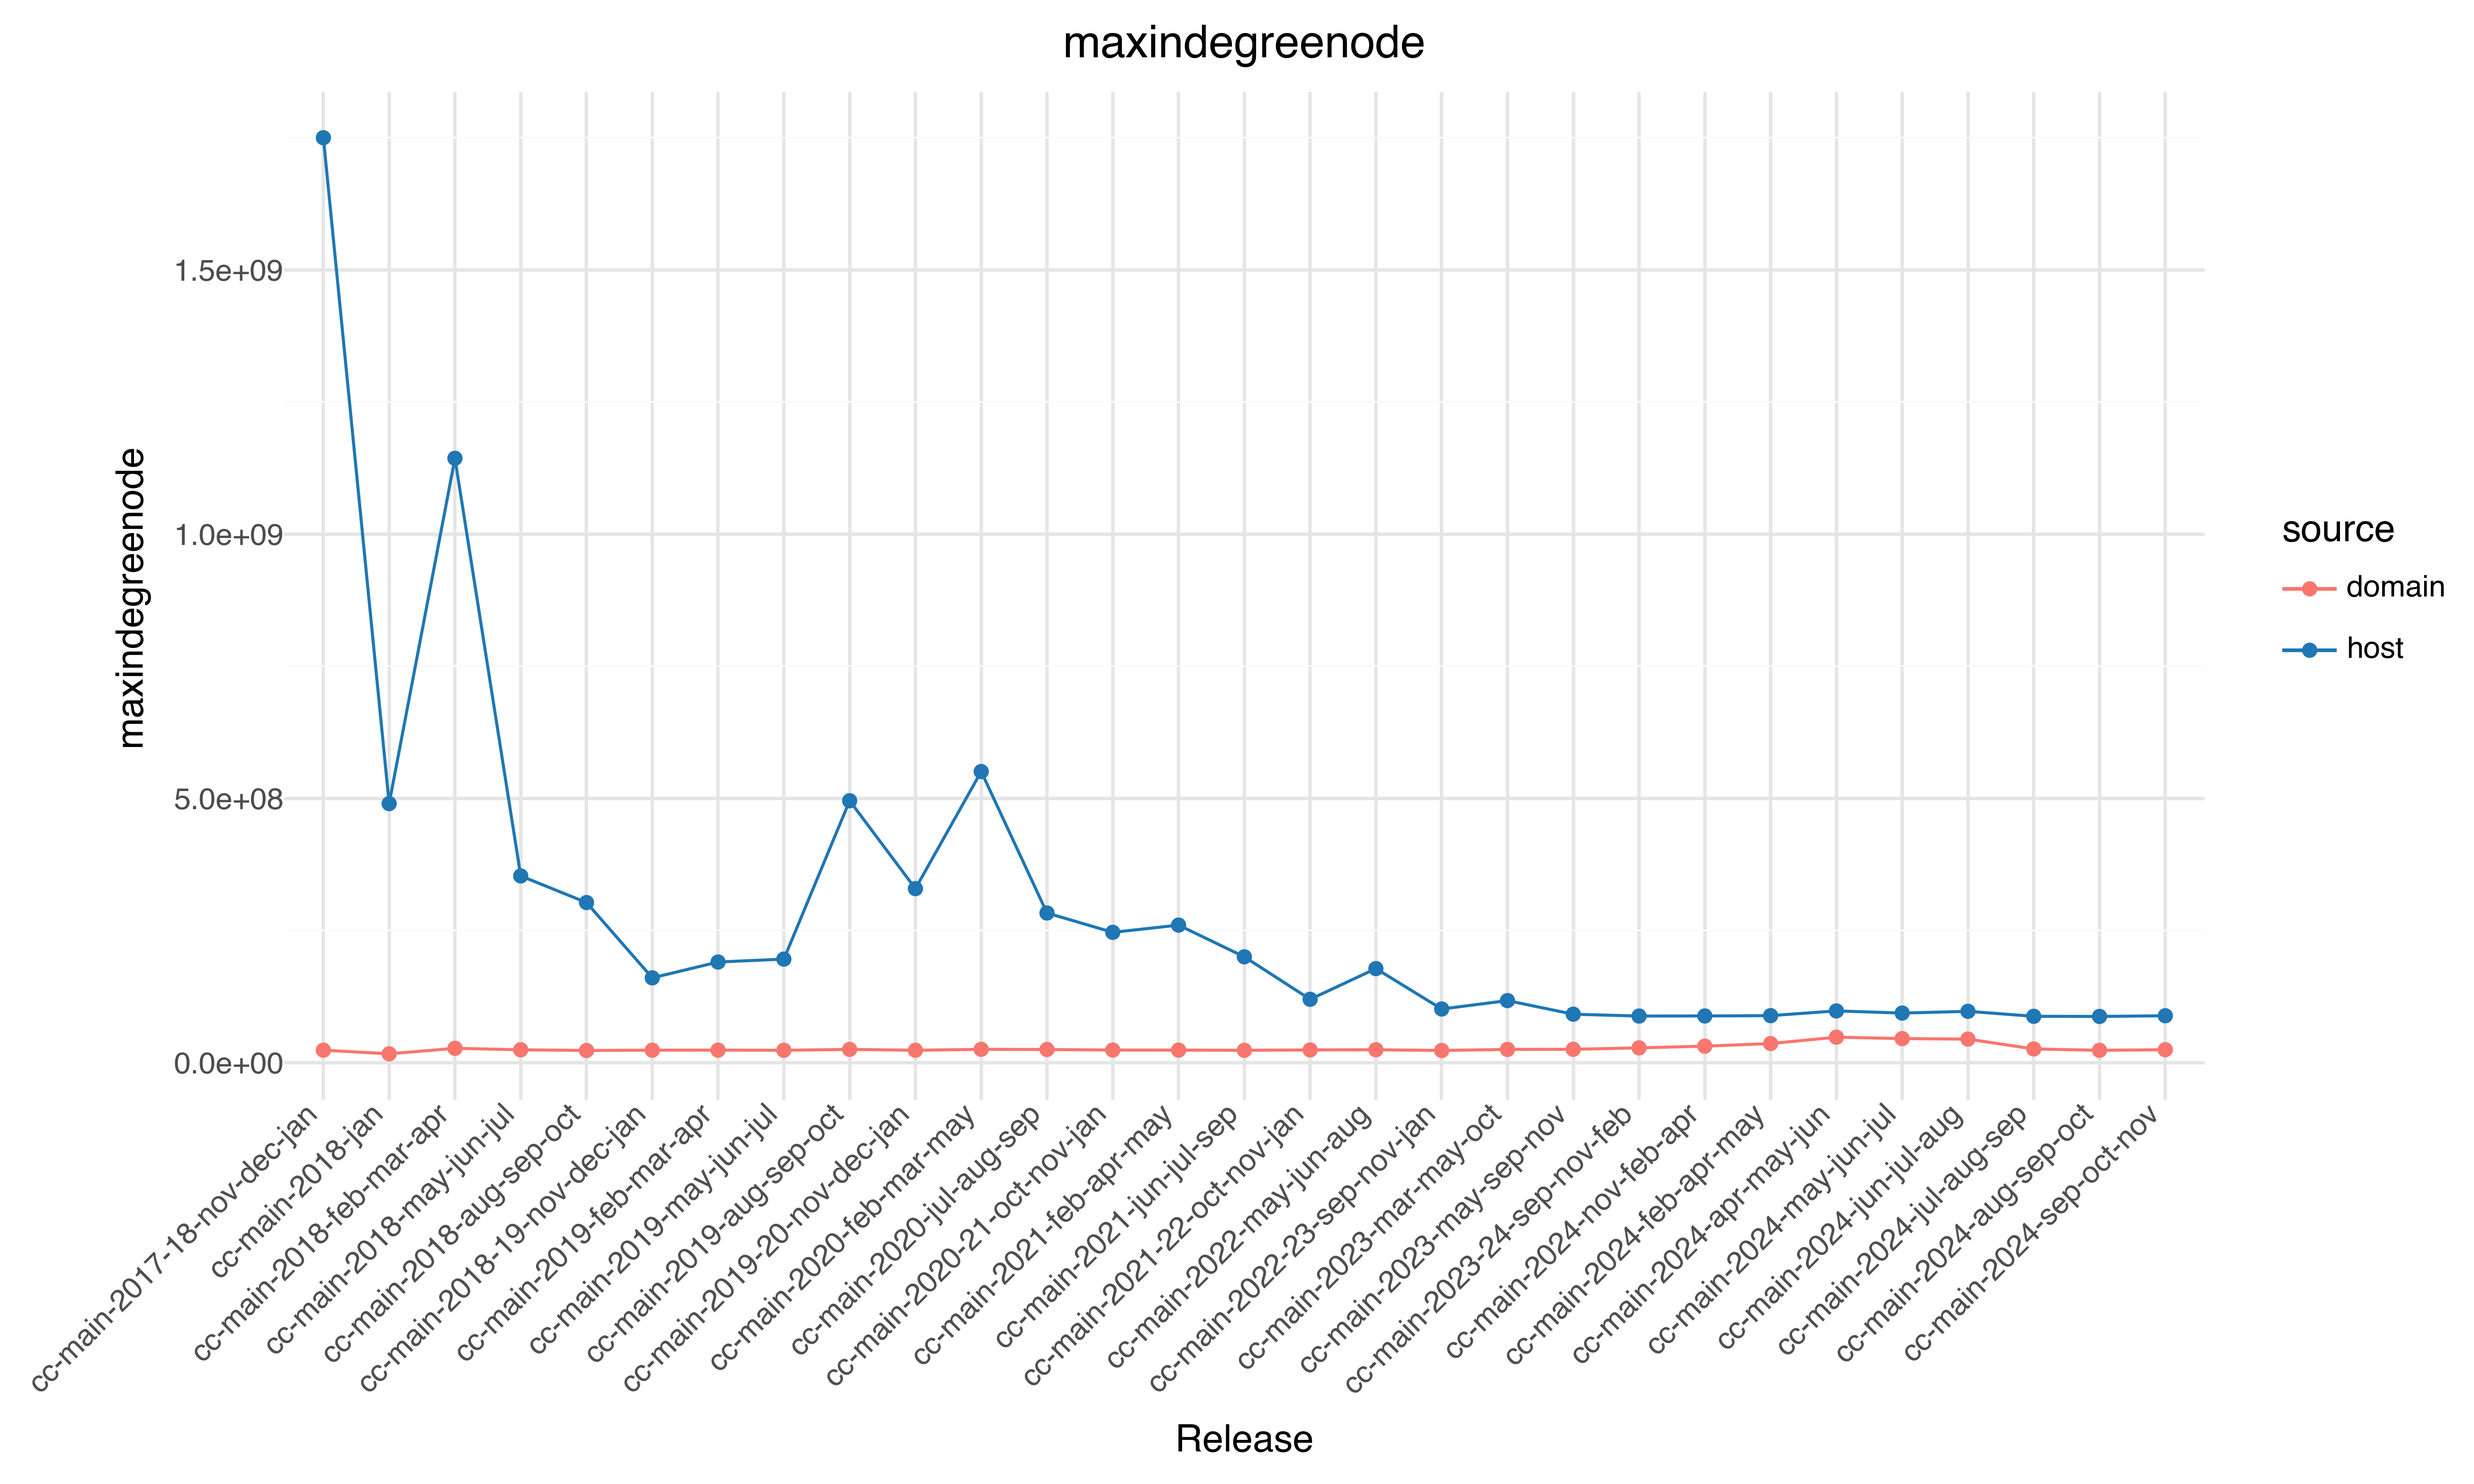
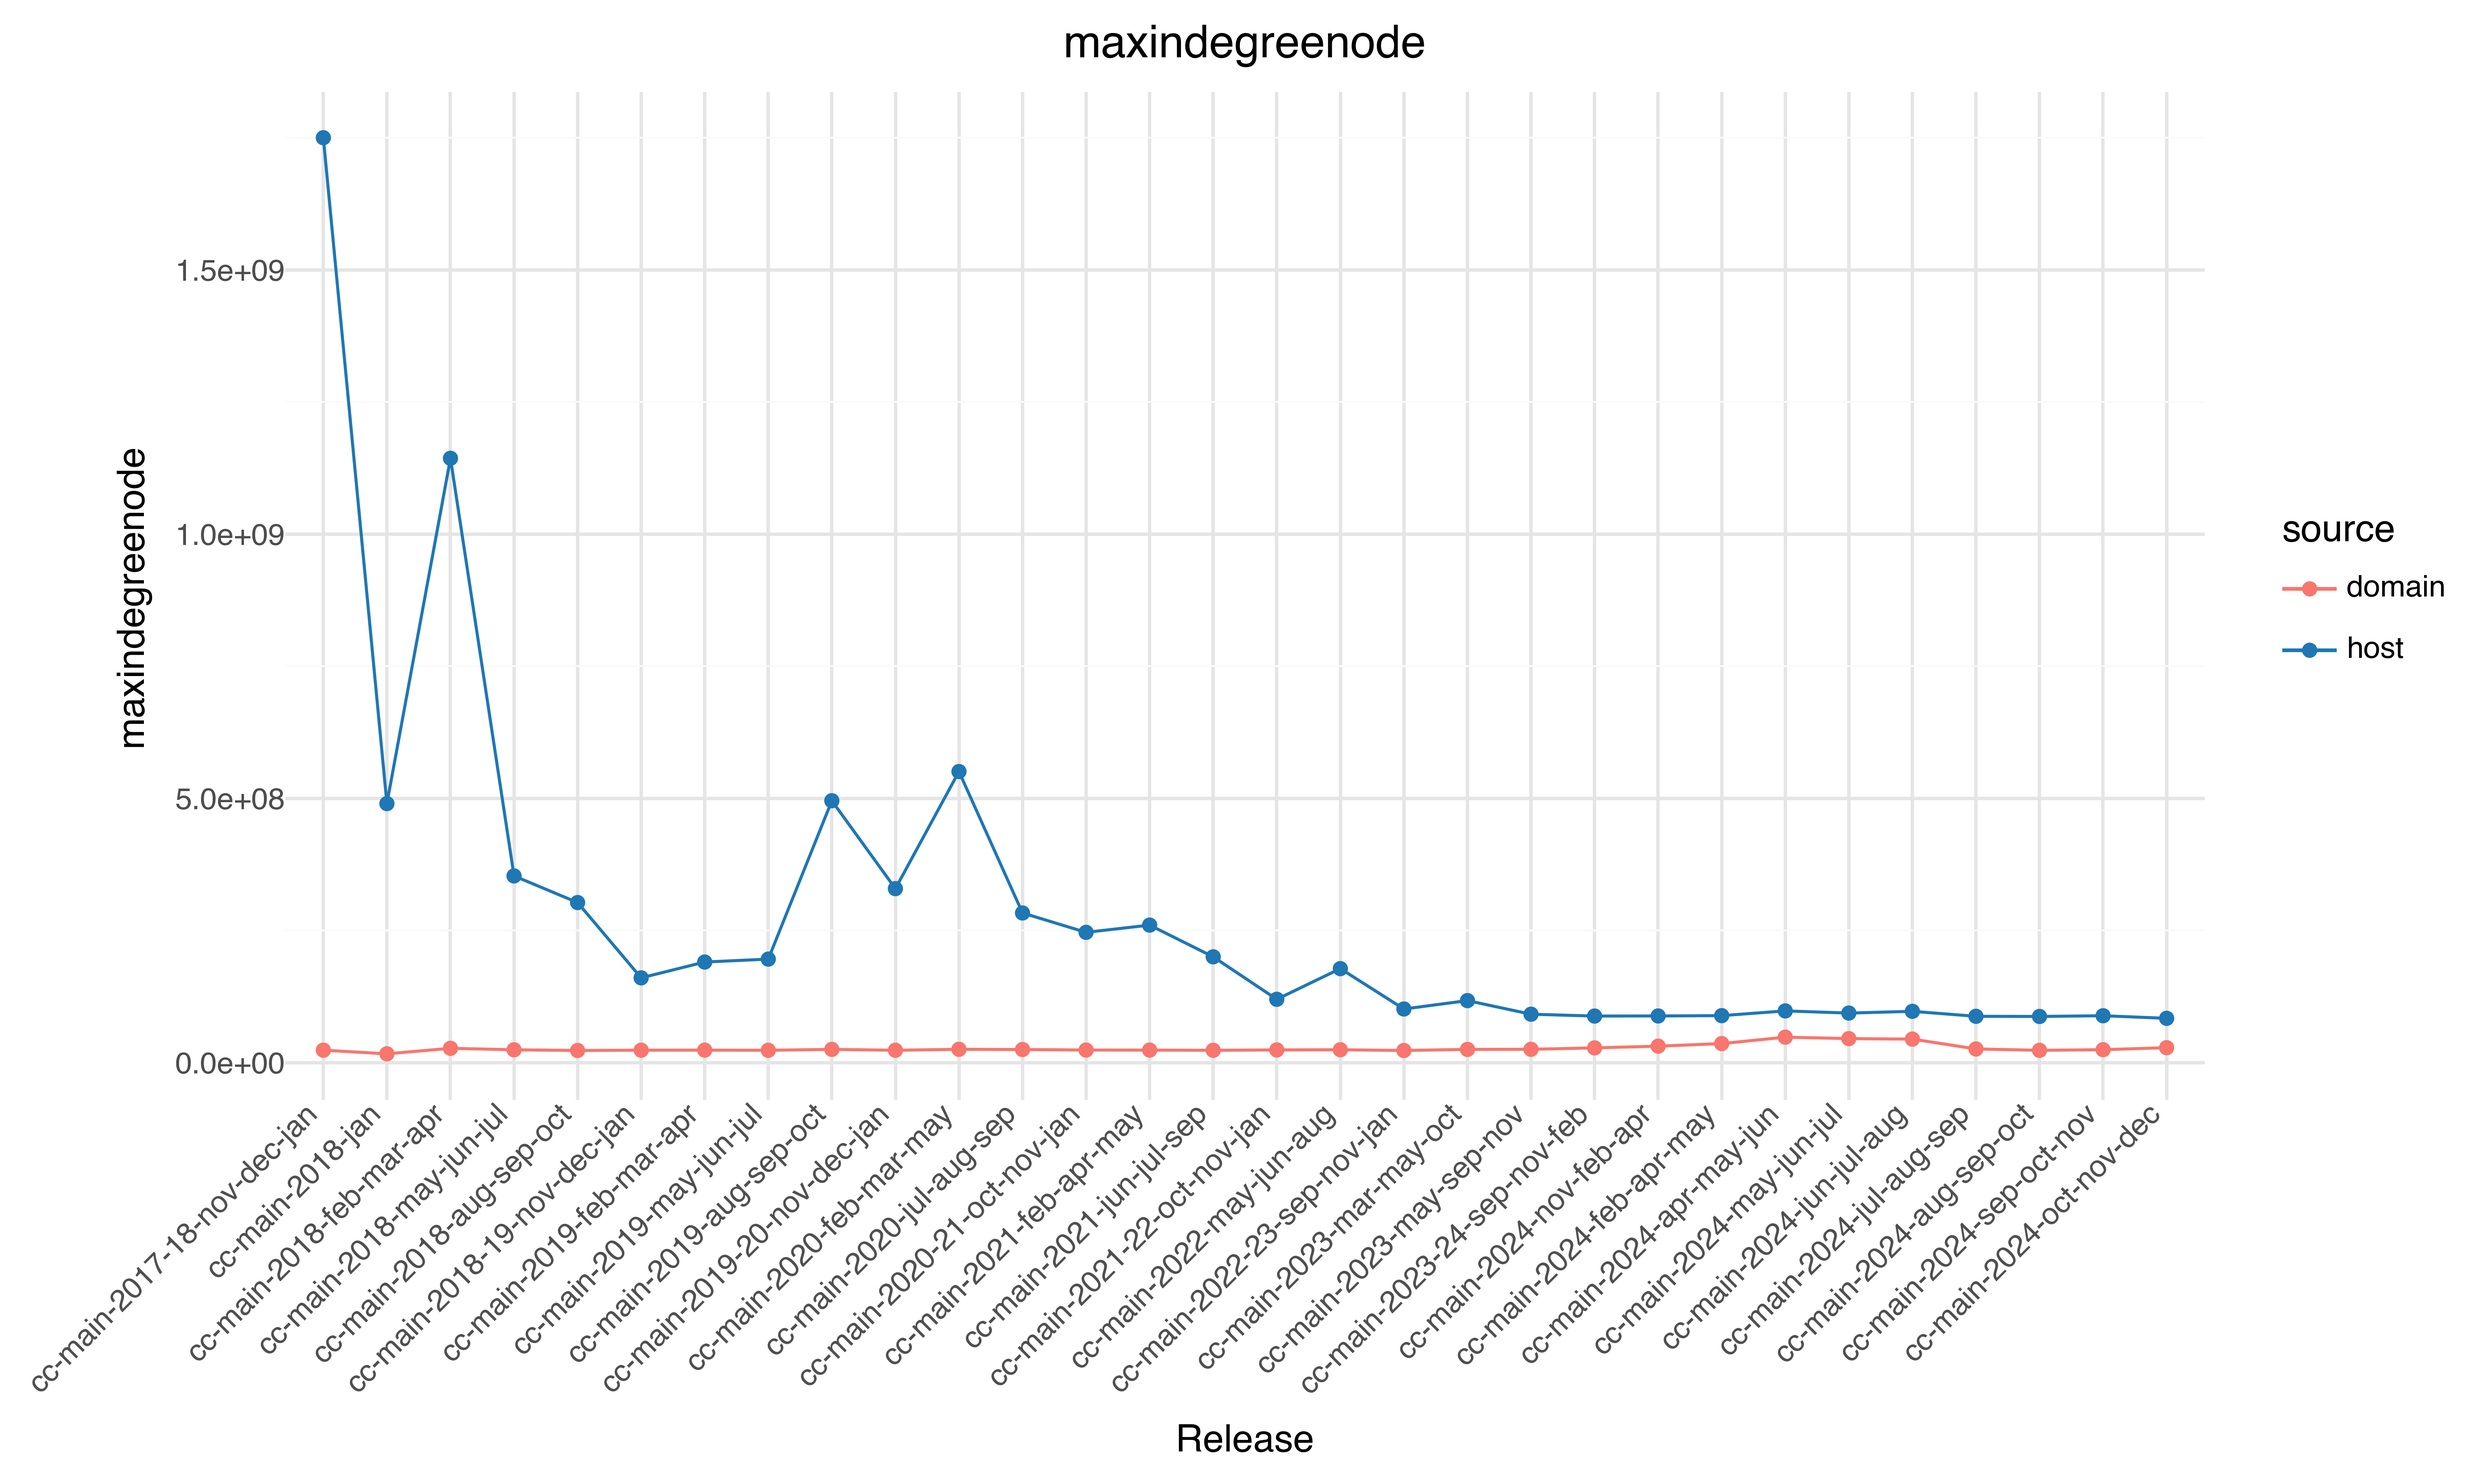
chore: update with data from latest release (cc-main-2024-oct-nov-dec)

Changed region(s): [[0.0935, 0.0622, 0.8727, 0.9333]]

diff --git a/docs/index.html b/docs/index.html
@@ -190,7 +190,7 @@ select:hover {
 <h1>Web Graph Statistics</h1>
 
 <div class="update-info">
-    <p><strong>Last Updated:</strong> 2024-12-17</p>
+    <p><strong>Last Updated:</strong> 2024-12-21</p>
     <p><strong>Latest Release:</strong> <a href="https://data.commoncrawl.org/projects/hyperlinkgraph/cc-main-2024-sep-oct-nov/index.html" target="_blank">cc-main-2024-sep-oct-nov</a></p>
 </div>
 
@@ -204,7 +204,8 @@ select:hover {
 <p>The top ten highest ranked hosts and domains from each release are listed below. Ranks are derived from <a href="https://en.wikipedia.org/wiki/Centrality">Harmonic Centrality</a>, and we also show <a href="https://en.wikipedia.org/wiki/PageRank">PageRank</a> for comparison.</p>
         </div>
         <h2>Top Ten Ranks</h2><span style="font-weight: bold">Domain</span><div class="dropdown"><select id="domain-release-dropdown">
-<option value="">Choose a release...</option><option value="dropdown-domain-cc-main-2024-sep-oct-nov">cc-main-2024-sep-oct-nov</option>
+<option value="">Choose a release...</option><option value="dropdown-domain-cc-main-2024-oct-nov-dec">cc-main-2024-oct-nov-dec</option>
+<option value="dropdown-domain-cc-main-2024-sep-oct-nov">cc-main-2024-sep-oct-nov</option>
 <option value="dropdown-domain-cc-main-2024-aug-sep-oct">cc-main-2024-aug-sep-oct</option>
 <option value="dropdown-domain-cc-main-2024-jul-aug-sep">cc-main-2024-jul-aug-sep</option>
 <option value="dropdown-domain-cc-main-2024-jun-jul-aug">cc-main-2024-jun-jul-aug</option>
@@ -871,8 +872,15 @@ select:hover {
 <tr><td>10</td><td>2.4812404E7</td><td>10</td><td>0.004963646173895846</td><td>org.gmpg</td><td>1</td></tr>
 </tbody></table>
 </div>
+<div class="dropdown-content" id="dropdown-domain-cc-main-2024-oct-nov-dec"><table>
+<thead><tr>
+</tr></thead>
+<tbody>
+</tbody></table>
+</div>
 <span style="font-weight: bold">Host</span><div class="dropdown"><select id="host-release-dropdown">
-<option value="">Choose a release...</option><option value="dropdown-host-cc-main-2024-sep-oct-nov">cc-main-2024-sep-oct-nov</option>
+<option value="">Choose a release...</option><option value="dropdown-host-cc-main-2024-oct-nov-dec">cc-main-2024-oct-nov-dec</option>
+<option value="dropdown-host-cc-main-2024-sep-oct-nov">cc-main-2024-sep-oct-nov</option>
 <option value="dropdown-host-cc-main-2024-aug-sep-oct">cc-main-2024-aug-sep-oct</option>
 <option value="dropdown-host-cc-main-2024-jul-aug-sep">cc-main-2024-jul-aug-sep</option>
 <option value="dropdown-host-cc-main-2024-jun-jul-aug">cc-main-2024-jun-jul-aug</option>
@@ -1508,6 +1516,27 @@ select:hover {
 <tr><td>8</td><td>2.8439014E7</td><td>10</td><td>0.0016462133303859657</td><td>com.linkedin</td></tr>
 <tr><td>9</td><td>2.7820032E7</td><td>8</td><td>0.0025997548456277286</td><td>com.gstatic.fonts</td></tr>
 <tr><td>10</td><td>2.617217E7</td><td>9</td><td>0.002484642762986823</td><td>org.gmpg</td></tr>
+</tbody></table>
+</div>
+<div class="dropdown-content" id="dropdown-host-cc-main-2024-oct-nov-dec"><table>
+<thead><tr>
+<th>#harmonicc_pos</th>
+<th>#harmonicc_val</th>
+<th>#pr_pos</th>
+<th>#pr_val</th>
+<th>#host_rev</th>
+</tr></thead>
+<tbody>
+<tr><td>1</td><td>3.4921748E7</td><td>3</td><td>0.005273021153040486</td><td>com.facebook</td></tr>
+<tr><td>2</td><td>3.3882176E7</td><td>2</td><td>0.006650909401485949</td><td>com.googleapis.fonts</td></tr>
+<tr><td>3</td><td>3.1024352E7</td><td>1</td><td>0.008836677792817044</td><td>com.google</td></tr>
+<tr><td>4</td><td>3.0448134E7</td><td>4</td><td>0.0042309294211210465</td><td>com.googletagmanager</td></tr>
+<tr><td>5</td><td>3.0370378E7</td><td>6</td><td>0.0031600205309117112</td><td>com.instagram</td></tr>
+<tr><td>6</td><td>3.0282002E7</td><td>5</td><td>0.003748852234913126</td><td>com.youtube</td></tr>
+<tr><td>7</td><td>2.9584546E7</td><td>8</td><td>0.0027094447203024354</td><td>com.twitter</td></tr>
+<tr><td>8</td><td>2.7977228E7</td><td>7</td><td>0.0029298690287184108</td><td>com.gstatic.fonts</td></tr>
+<tr><td>9</td><td>2.6964282E7</td><td>12</td><td>0.0017066173869092424</td><td>com.linkedin</td></tr>
+<tr><td>10</td><td>2.5201234E7</td><td>9</td><td>0.002672496191966479</td><td>org.gmpg</td></tr>
 </tbody></table>
 </div>
 <div class="dropdown-content" id="dropdown-cc-main-2017-18-nov-dec-jan">
@@ -2175,6 +2204,13 @@ select:hover {
 <tr><td>8</td><td>2.5309792E7</td><td>8</td><td>0.005336931759133796</td><td>com.gstatic</td><td>197</td></tr>
 <tr><td>9</td><td>2.5040054E7</td><td>11</td><td>0.0038851187826975998</td><td>com.linkedin</td><td>710</td></tr>
 <tr><td>10</td><td>2.4812404E7</td><td>10</td><td>0.004963646173895846</td><td>org.gmpg</td><td>1</td></tr>
+</tbody></table>
+</div>
+<div class="dropdown-content" id="dropdown-cc-main-2024-oct-nov-dec">
+<table>
+<thead><tr>
+</tr></thead>
+<tbody>
 </tbody></table>
 </div>
 <p>These ranks can be found by running the following:</p><pre><code class="bash"># Define environment variables for release and graph level
